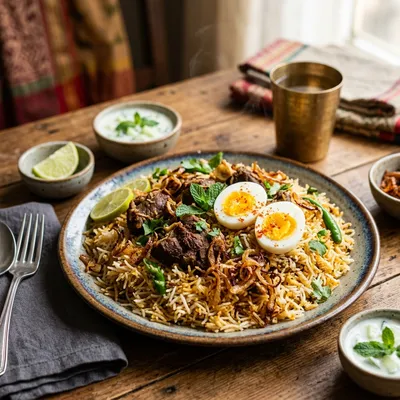
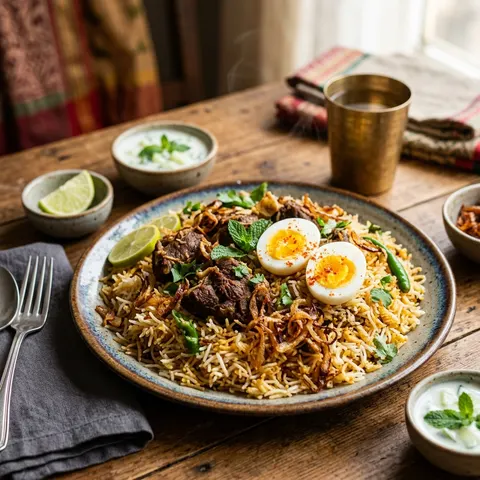
Add real food images and update script

diff --git a/download-wiki-images.js b/download-wiki-images.js
@@ -3,67 +3,113 @@ import path from 'path';
 import axios from 'axios';
 import sharp from 'sharp';
 
-async function fetchWikiImageURL(query) {
-  try {
-    const searchUrl = `https://commons.wikimedia.org/w/api.php?action=query&generator=search&gsrsearch=${encodeURIComponent(query)}&gsrnamespace=6&gsrlimit=1&prop=imageinfo&iiprop=url&format=json`;
-    const res = await axios.get(searchUrl, { timeout: 10000 });
-    const pages = res.data?.query?.pages;
-    if (pages) {
-      const firstPageId = Object.keys(pages)[0];
-      const imageUrl = pages[firstPageId]?.imageinfo?.[0]?.url;
-      if (imageUrl && !imageUrl.toLowerCase().endsWith('.svg')) {
-        return imageUrl;
-      }
-    }
-  } catch (err) {}
-  return null;
-}
+const UA = { 'User-Agent': 'FoodBingoBD/1.0 (https://github.com/nazmusshakib878/food-bingo-bd)' };
 
-async function downloadAndOptimize(url, outputPath) {
+// Extra search hints for foods whose English name is not a good Commons query
+const HINTS = {
+  'Vapa Pitha': ['Bhapa pitha', 'Bhapa pitha Bangladesh'],
+  'Chitoi Pitha': ['Chitoi pitha', 'Chitoi pitha Bangladesh'],
+  'Patishapta': ['Patishapta pitha', 'Patishapta'],
+  'Bibi Khana Pitha': ['Bibikhana pitha'],
+  'Kholaja Pitha': ['Kholaja pitha'],
+  'Chunga Pura Pitha': ['Chunga pitha', 'Bamboo cake Bangladesh'],
+  'Nokshi Pitha': ['Nakshi pitha', 'Nokshi pitha'],
+  'Cumilla Rasmalai': ['Rasmalai', 'Ras malai Comilla'],
+  'Bogura Doi': ['Bogra doi', 'Bogurar doi', 'Mishti doi'],
+  'Natore Kachagolla': ['Kachagolla', 'Kacha golla'],
+  'Porabari Chomchom': ['Chomchom Porabari', 'Cham cham sweet Bangladesh'],
+  'Muktagacha Monda': ['Muktagachha monda', 'Muktagacha monda'],
+  'Tiler Khaja': ['Khaja sweet Kushtia', 'Tiler khaja'],
+  'Balish Mishti': ['Balish mishti', 'Pillow sweet Bangladesh'],
+  'Brahmanbaria Chanamukhi': ['Chanamukhi', 'Chhanamukhi'],
+  'Sherpur Chanar Payesh': ['Chanar payesh', 'Payesh Bangladesh'],
+  'Ashtagram Cheese': ['Ashtagram cheese', 'Ashtagram panir'],
+  'Munshiganj Patkhir': ['Patkhir', 'Pat khir'],
+  'Buffalo Yogurt': ['Curd Bangladesh','Doi yogurt clay pot','Dahi earthen pot'],
+  'Gopalganj Rasgulla': ['Rasgulla Bangladesh', 'Rasgulla'],
+  'Jamurki Sandesh': ['Sandesh Mirzapur', 'Sandesh sweet Bangladesh'],
+  'Sabitri Mishti': ['Sabitri mishti', 'Meherpur sweet'],
+  'Pabna Pera Mishti': ['Pera Bangladesh sweet','Pabna sweet'],
+  'Shahi Jilapi': ['Jilapi Bangladesh', 'Jalebi'],
+  'Jashore Khejur Gur': ['Khejur gur', 'Date palm jaggery Bangladesh'],
+  'Sirajganj Pantua': ['Pantua', 'Pantua sweet'],
+  'Khirsapat Mango': ['Khirsapat','Khirshapati mango','Khirsapati mango Bangladesh'],
+  'Haribhanga Mango': ['Haribhanga mango', 'Mango Rangpur'],
+  'Sundarbans Honey': ['Sundarbans honey', 'Honey collection Sundarbans'],
+  'Narsingdi Lotkon': ['Lotkon', 'Latkan fruit', 'Burmese grape Baccaurea ramiflora'],
+  'Madhupur Pineapple': ['Madhupur pineapple', 'Pineapple Bangladesh'],
+  'Barishal Amra': ['Spondias dulcis', 'Hog plum Bangladesh', 'Amra fruit'],
+  'Dinajpur Bedana Litchi': ['Lychee Bangladesh', 'Litchi Dinajpur'],
+  'Rajshahi Fazli Mango': ['Fazli mango', 'Fazli mango Rajshahi'],
+  'Fuchka': ['Fuchka', 'Phuchka', 'Fuchka Bangladesh'],
+  'Shahi Halim': ['Haleem Bangladesh', 'Haleem'],
+  'Bela Biscuit': ['Bela biscuit','Chittagong biscuit','Biscuits in plate'],
+  'Kataribhog Rice': ['Kataribhog rice', 'Katarivog rice'],
+  'Tulshimala Rice': ['Tulshimala','Cooked rice Bangladesh','Polao rice'],
+  'Borhani': ['Borhani', 'Borhani drink'],
+  'Seven Color Tea': ['Seven layer tea Sreemangal', 'Seven colour tea', 'Tea Sreemangal'],
+  'Bakarkhani': ['Bakarkhani', 'Bakarkhani bread'],
+};
+
+const OK_EXT = /\.(jpe?g|png|webp)$/i;
+const BAD = /(logo|map|flag|diagram|icon|stamp|poster|painting|drawing|portrait|svg|statue|temple)/i;
+
+async function searchCommons(query) {
+  const url = `https://commons.wikimedia.org/w/api.php?action=query&generator=search&gsrsearch=${encodeURIComponent(query)}&gsrnamespace=6&gsrlimit=8&prop=imageinfo&iiprop=url|size|extmetadata&iiurlwidth=800&format=json`;
   try {
-    const response = await axios({ url, responseType: 'arraybuffer', timeout: 15000 });
-    const buffer = Buffer.from(response.data, 'binary');
-    await sharp(buffer)
-      .resize(400, 400, { fit: 'cover' })
-      .webp({ quality: 80 })
-      .toFile(outputPath);
-    return true;
-  } catch (err) {
-    return false;
+    const res = await axios.get(url, { timeout: 15000, headers: UA });
+    const pages = Object.values(res.data?.query?.pages || {});
+    return pages
+      .map((p) => ({
+        title: p.title,
+        url: p.imageinfo?.[0]?.thumburl || p.imageinfo?.[0]?.url,
+        page: p.imageinfo?.[0]?.descriptionurl,
+        w: p.imageinfo?.[0]?.width,
+        h: p.imageinfo?.[0]?.height,
+        license: p.imageinfo?.[0]?.extmetadata?.LicenseShortName?.value || '',
+        index: p.index,
+      }))
+      .filter((c) => c.url && OK_EXT.test(c.title) && !BAD.test(c.title) && c.w >= 400 && c.h >= 400)
+      .sort((a, b) => a.index - b.index);
+  } catch {
+    return [];
   }
 }
 
-async function processFoods() {
+async function main() {
   const foodsPath = path.resolve('src/data/foods.json');
   const outDir = path.resolve('public/foods');
-  
+  const logPath = path.resolve('src/data/foodImageSources.json');
   await fs.mkdir(outDir, { recursive: true });
-  let data = JSON.parse(await fs.readFile(foodsPath, 'utf8'));
-  let count = 0;
+  const foods = JSON.parse(await fs.readFile(foodsPath, 'utf8'));
+  let log = {};
+  try { log = JSON.parse(await fs.readFile(logPath, 'utf8')); } catch {}
+  const missing = [];
 
-  for (let i = 0; i < data.length; i++) {
-    const food = data[i];
-    const imageFilename = path.basename(food.image);
-    const imagePath = path.join(outDir, imageFilename);
+  for (const food of foods) {
+    const out = path.join(outDir, path.basename(food.image));
+    try { await fs.access(out); continue; } catch {}
 
-    try {
-      await fs.access(imagePath);
-      count++;
-      continue;
-    } catch {}
-
-    let imgUrl = await fetchWikiImageURL(food.nameEn);
-    if (!imgUrl) imgUrl = await fetchWikiImageURL(food.nameBn);
-    if (!imgUrl) {
-       const keywords = food.nameEn.split(' ');
-       imgUrl = await fetchWikiImageURL(keywords[keywords.length - 1] + ' food');
+    const queries = [...(HINTS[food.nameEn] || []), food.nameEn, `${food.nameEn} food`];
+    let done = false;
+    for (const q of queries) {
+      const cands = await searchCommons(q);
+      for (const c of cands.slice(0, 2)) {
+        try {
+          const r = await axios.get(c.url, { responseType: 'arraybuffer', timeout: 20000, headers: UA });
+          await sharp(Buffer.from(r.data)).resize(480, 480, { fit: 'cover' }).webp({ quality: 78 }).toFile(out);
+          log[food.nameEn] = { source: 'wikimedia-commons', query: q, title: c.title, page: c.page, license: c.license };
+          console.log(`OK   ${food.nameEn}  <- ${c.title}  [${c.license}]`);
+          done = true;
+          break;
+        } catch {}
+      }
+      if (done) break;
     }
-
-    if (imgUrl) {
-      const success = await downloadAndOptimize(imgUrl, imagePath);
-      if(success) count++;
-    }
+    if (!done) { missing.push(food.nameEn); console.log(`MISS ${food.nameEn}`); }
   }
-  console.log("Successfully fetched: " + count + " / " + data.length);
+  await fs.writeFile(logPath, JSON.stringify(log, null, 2));
+  console.log('\nMISSING:', missing.length, JSON.stringify(missing));
 }
-processFoods();
+main();
+
